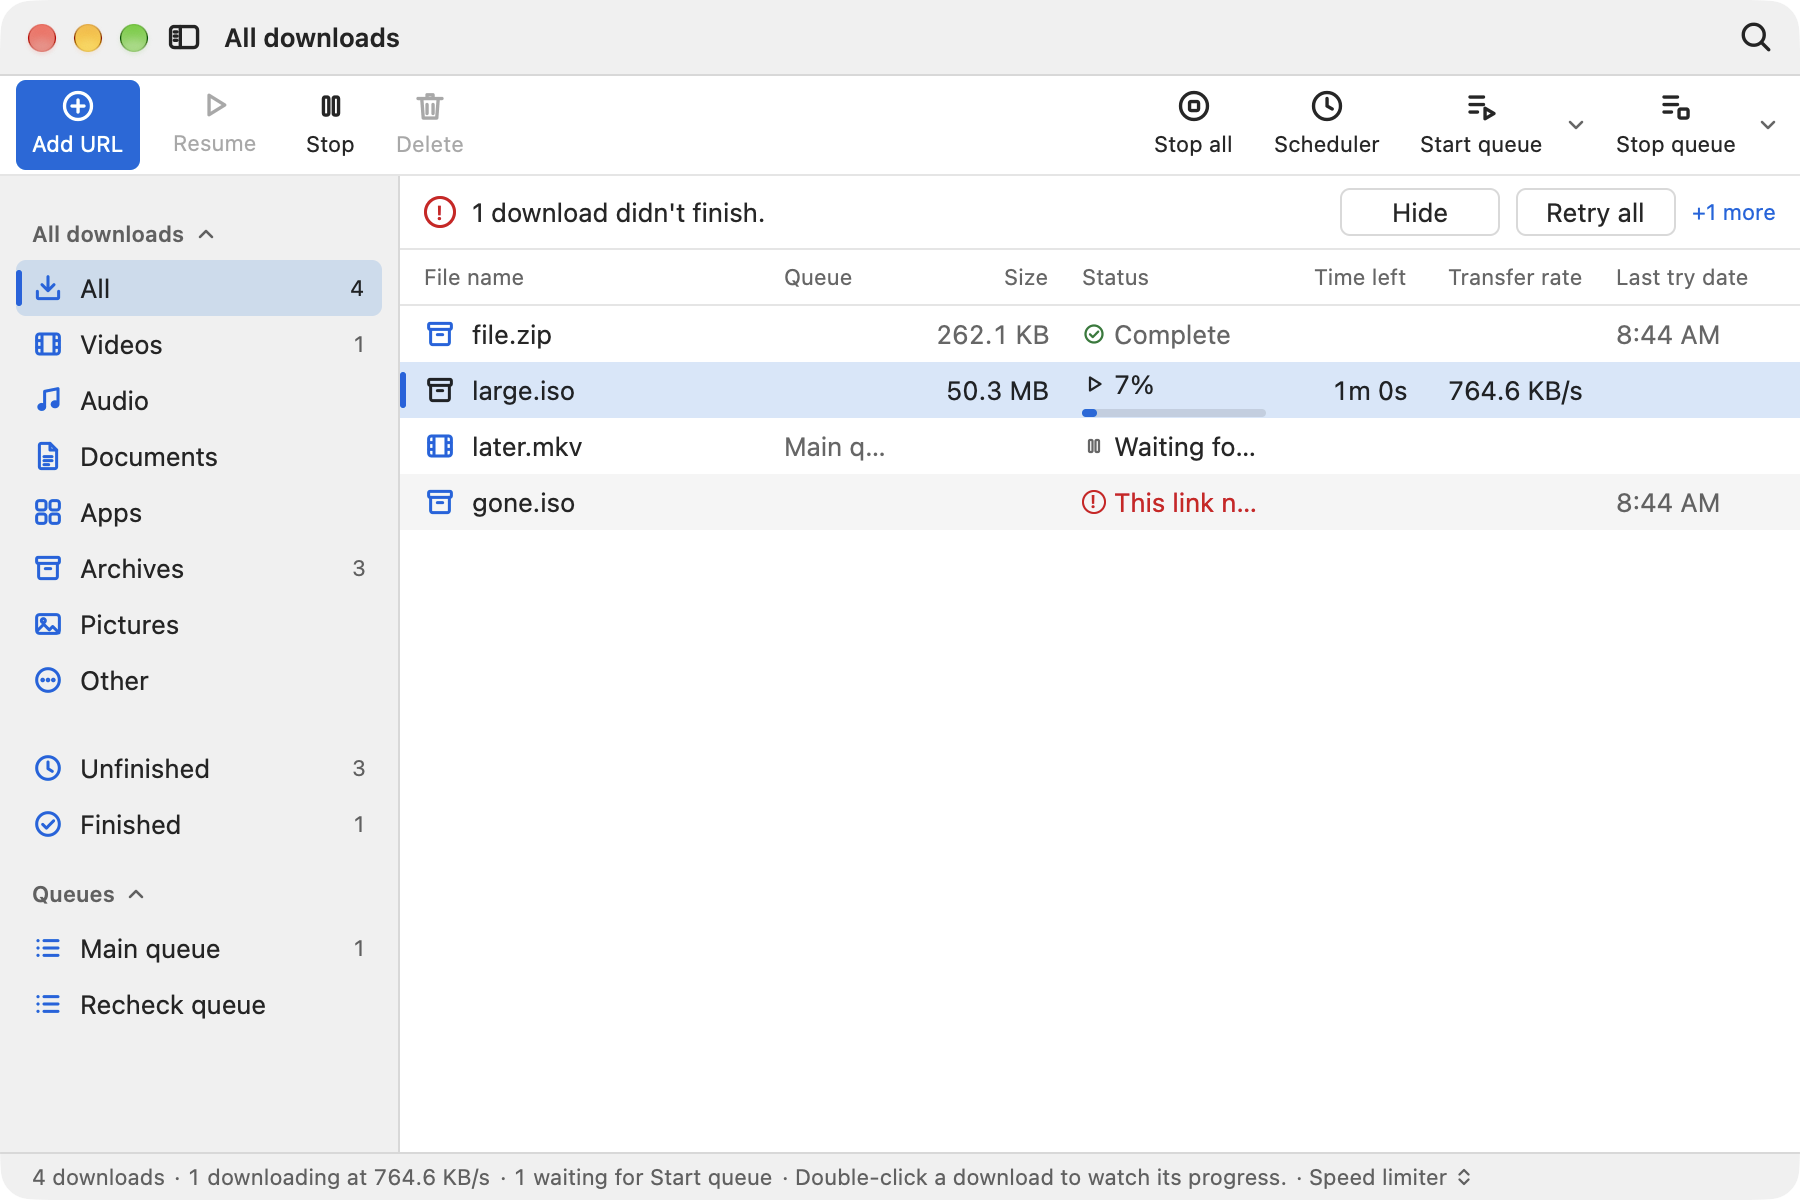
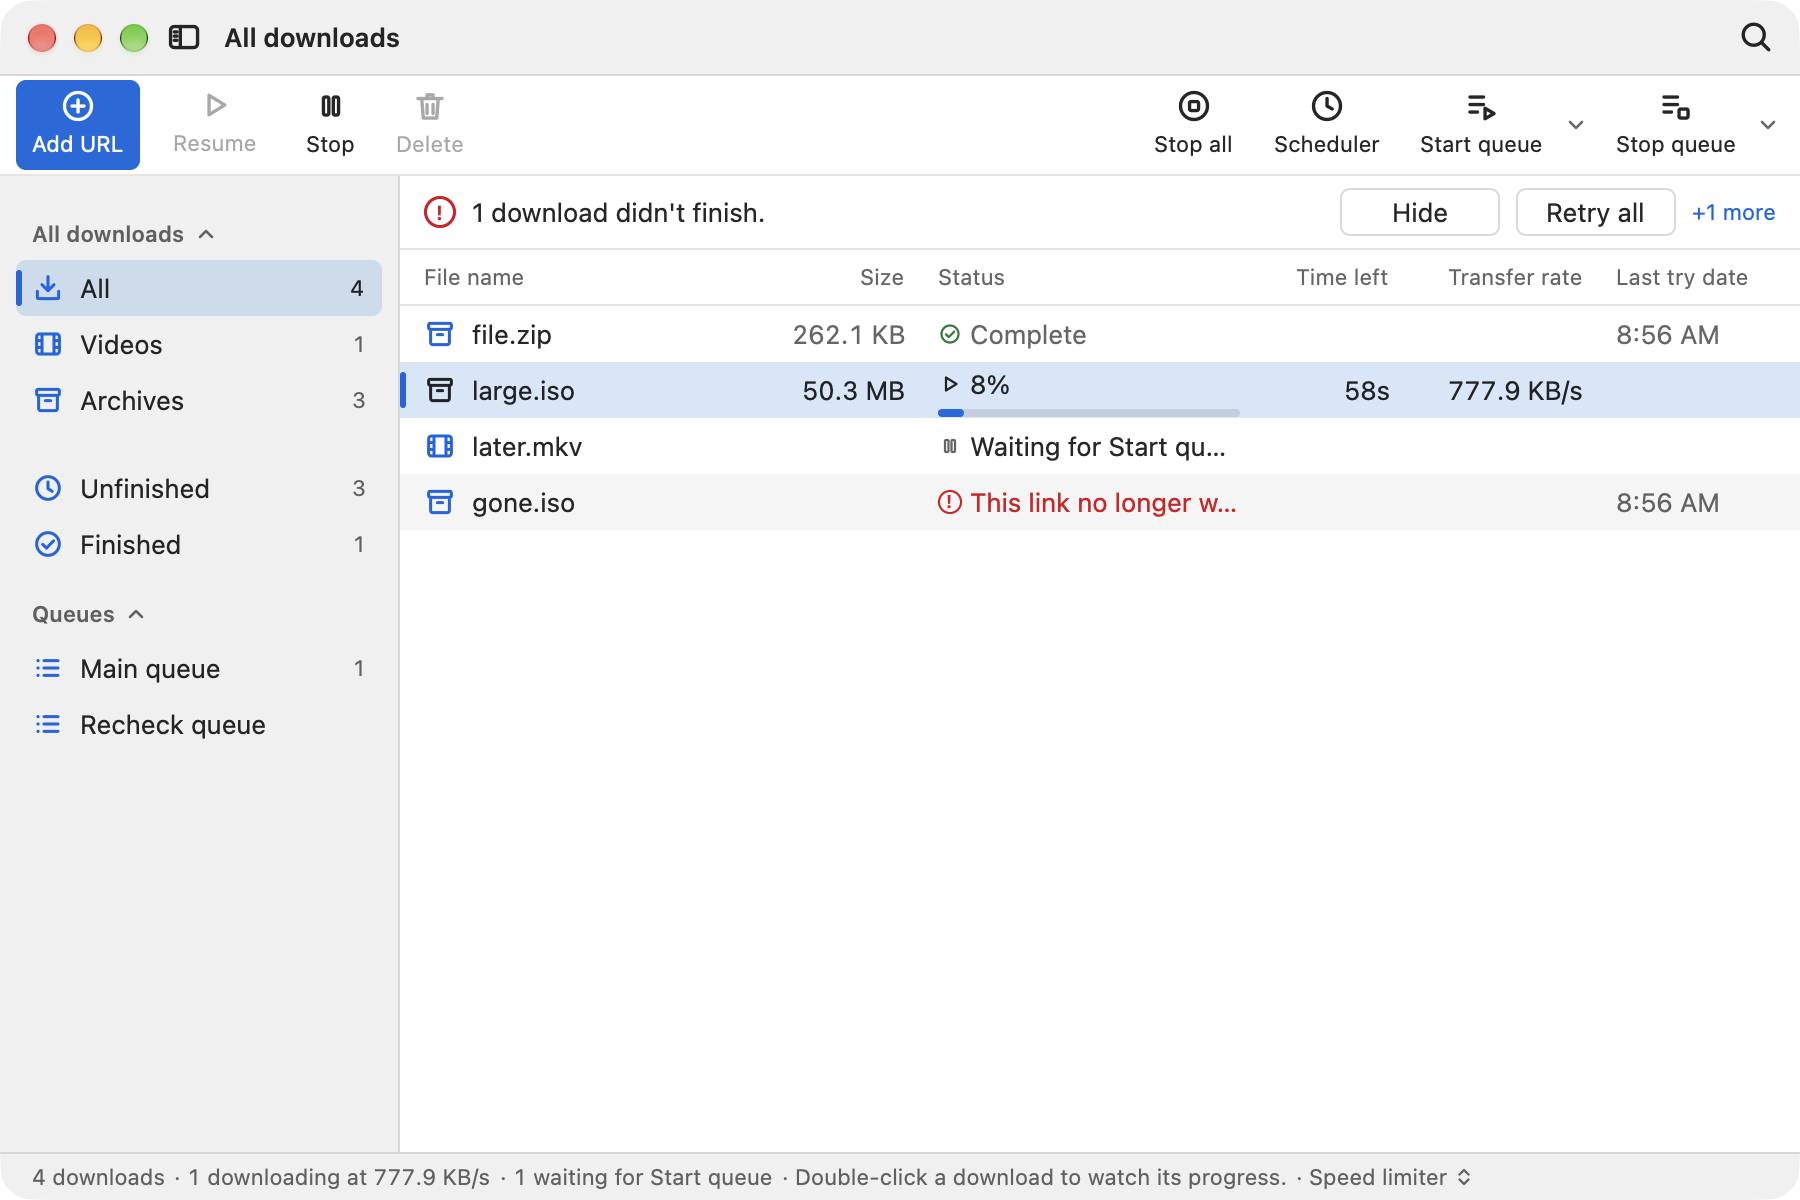
README: pictures, the desktop and phone demos taken again; gaps: the evening's handoff
scripts/readme-phone.py records docs/demo-phone.gif and docs/phone.png on an emulator.

diff --git a/docs/gaps.md b/docs/gaps.md
@@ -76,6 +76,25 @@ bots edits only what the check named, keeps their guardrails (`CLAUDE.md`, "The 
 GitHub Actions"), runs `bash scripts/ai-selftest.sh` before pushing, and says what it fixed
 in `docs/decisions.md`.
 
+## Next session (written 2026-11-27, evening)
+
+**Done today, after the handoff below** (each pictured light and dark, on the Mac and the
+emulator): main's red Desktop (#78, `titlebar.rs` over 800 lines); the list's section headings
+(sorted by Status, Last try date or Queue); a narrow dialog's foot wraps (Options in Arabic at
+400 points); the top bar's magnifier and side-panel switch one button in the text's colour, the
+search's tooltip naming ⌘F; a phone's ⋮ and ✕ drawn; the list fits a new window (columns give
+up their headings' room before scrolling sideways; Size as wide as "999.9 MB"); a more minimal
+home screen at the maintainer's words ("minimilist … functional"): a kind in the side panel once
+it holds a download, Queue off for a new dm; the first-download hint says to double-click (the
+row's Details button it named is gone). README pictures and both demos taken again by
+`scripts/readme-shots.py`, the new `readme-demo.py` (desktop GIF) and `readme-phone.py` (the
+emulator's GIF and picture). B25 names each change.
+
+**Still owed:** `python3 scripts/human-qa.py` in a visible window (B25's pictures are owed:
+the window changed); E52's wrapped right-to-left hints; readers for the new unread lines.
+More minimal, if wanted (not done, as rows B19 and B64 name them): the toolbar's Stop all,
+Start queue and Stop queue could go under More by default.
+
 ## Next session (written 2026-11-27, for 2026-11-28)
 
 **Done 2026-11-26 and 27: the UI refinement, Finder as the reference** (all on main, last

diff --git a/README.md b/README.md
@@ -151,7 +151,7 @@ Then click any download link: it lands in dm.
   </tr>
   <tr>
     <td align="center" width="50%">
-      <img src="docs/phone.png" width="260" alt="dm on an Android phone: four finished downloads as cards">
+      <img src="docs/phone.png" width="260" alt="dm on an Android phone: five downloads as cards, two large ones downloading and three complete">
       <br><sub><strong>On a phone</strong>: the same app, each download a card</sub>
     </td>
     <td align="center" width="50%">
@@ -188,7 +188,7 @@ Then click any download link: it lands in dm.
 
 ## On your phone (Android)
 
-<img align="right" width="240" src="docs/phone.png" alt="dm on an Android phone: the list of downloads as cards, each with its kind's picture, its name, a bar and Complete with its size; All, Unfinished, Finished and Places at the bottom">
+<img align="right" width="240" src="docs/phone.png" alt="dm on an Android phone: the list of downloads as cards, each with its kind's picture, its name, a bar and Complete with its size; All, Unfinished, Places and Options at the bottom">
 
 dm runs on Android 10 and newer, with the same engine and the same window as
 on a computer, laid out for a phone: each download a card, the menus in one
